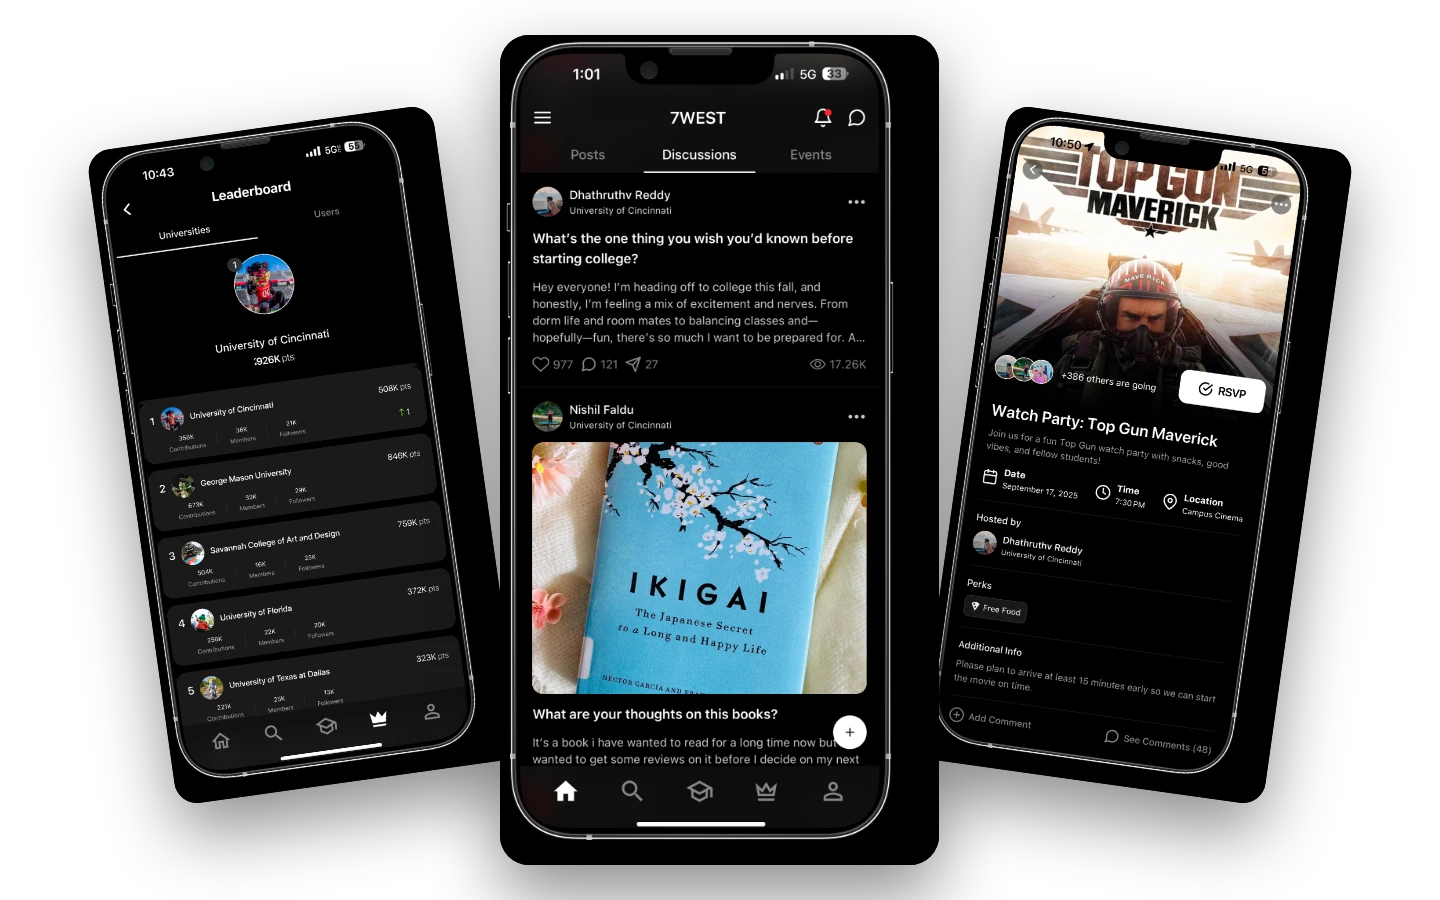
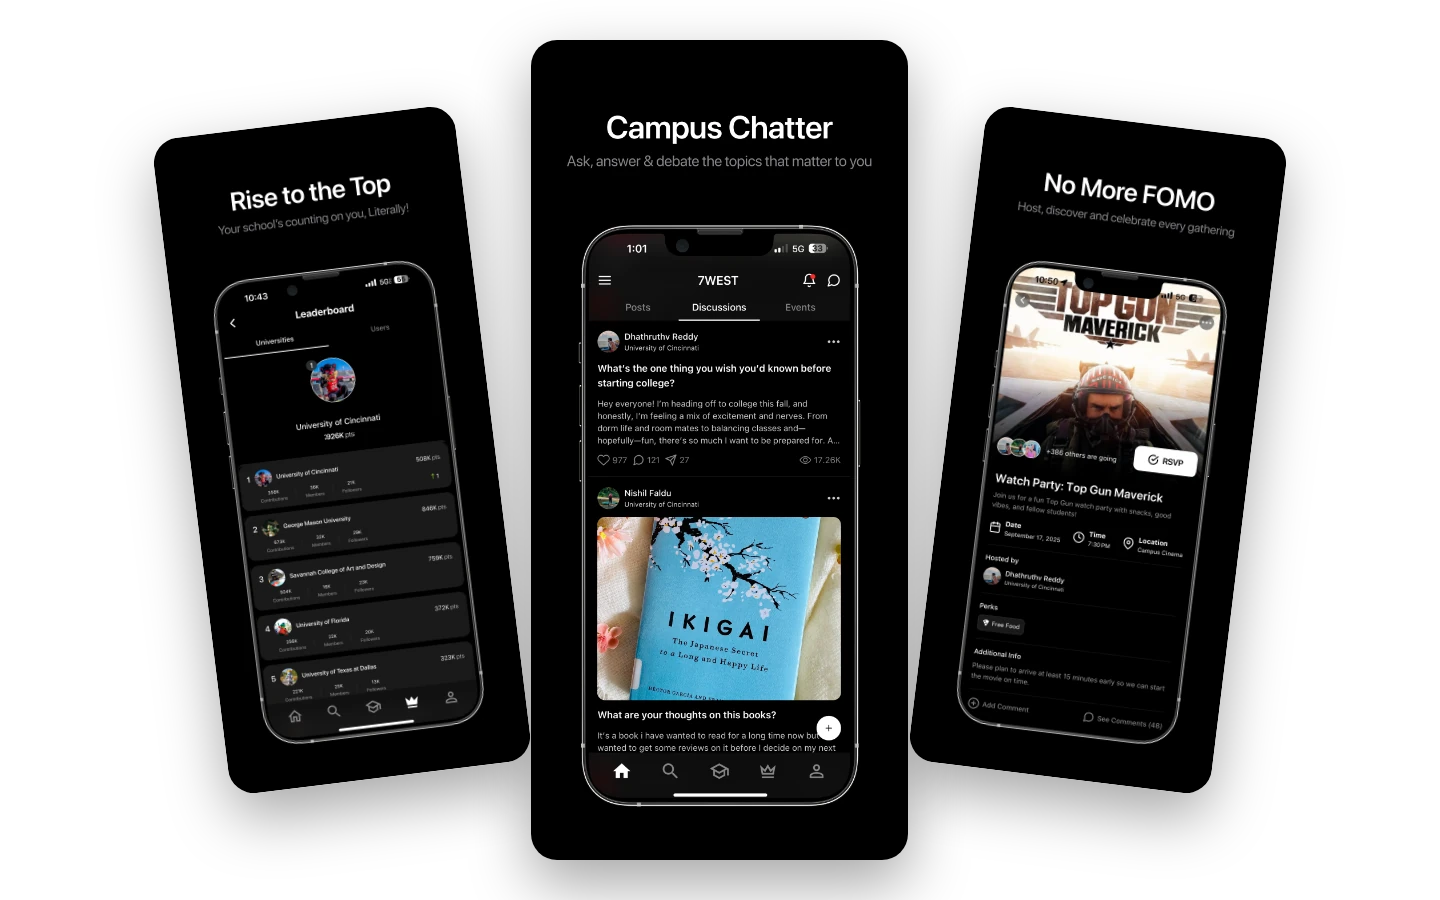
Use the full Play Store screenshots for 7West

diff --git a/components/showcase-projects.ts b/components/showcase-projects.ts
@@ -68,7 +68,7 @@ export const SHOWCASE: ShowcaseProject[] = [
     media: {
       kind: "image",
       src: "/showcase/7west-fan.webp",
-      alt: "Three 7West screens: the discussion feed, the university leaderboard, and an event page.",
+      alt: "Three 7West Play Store screenshots: the discussion feed, the university leaderboard, and an event page.",
       ratio: "16 / 10",
     },
   },
